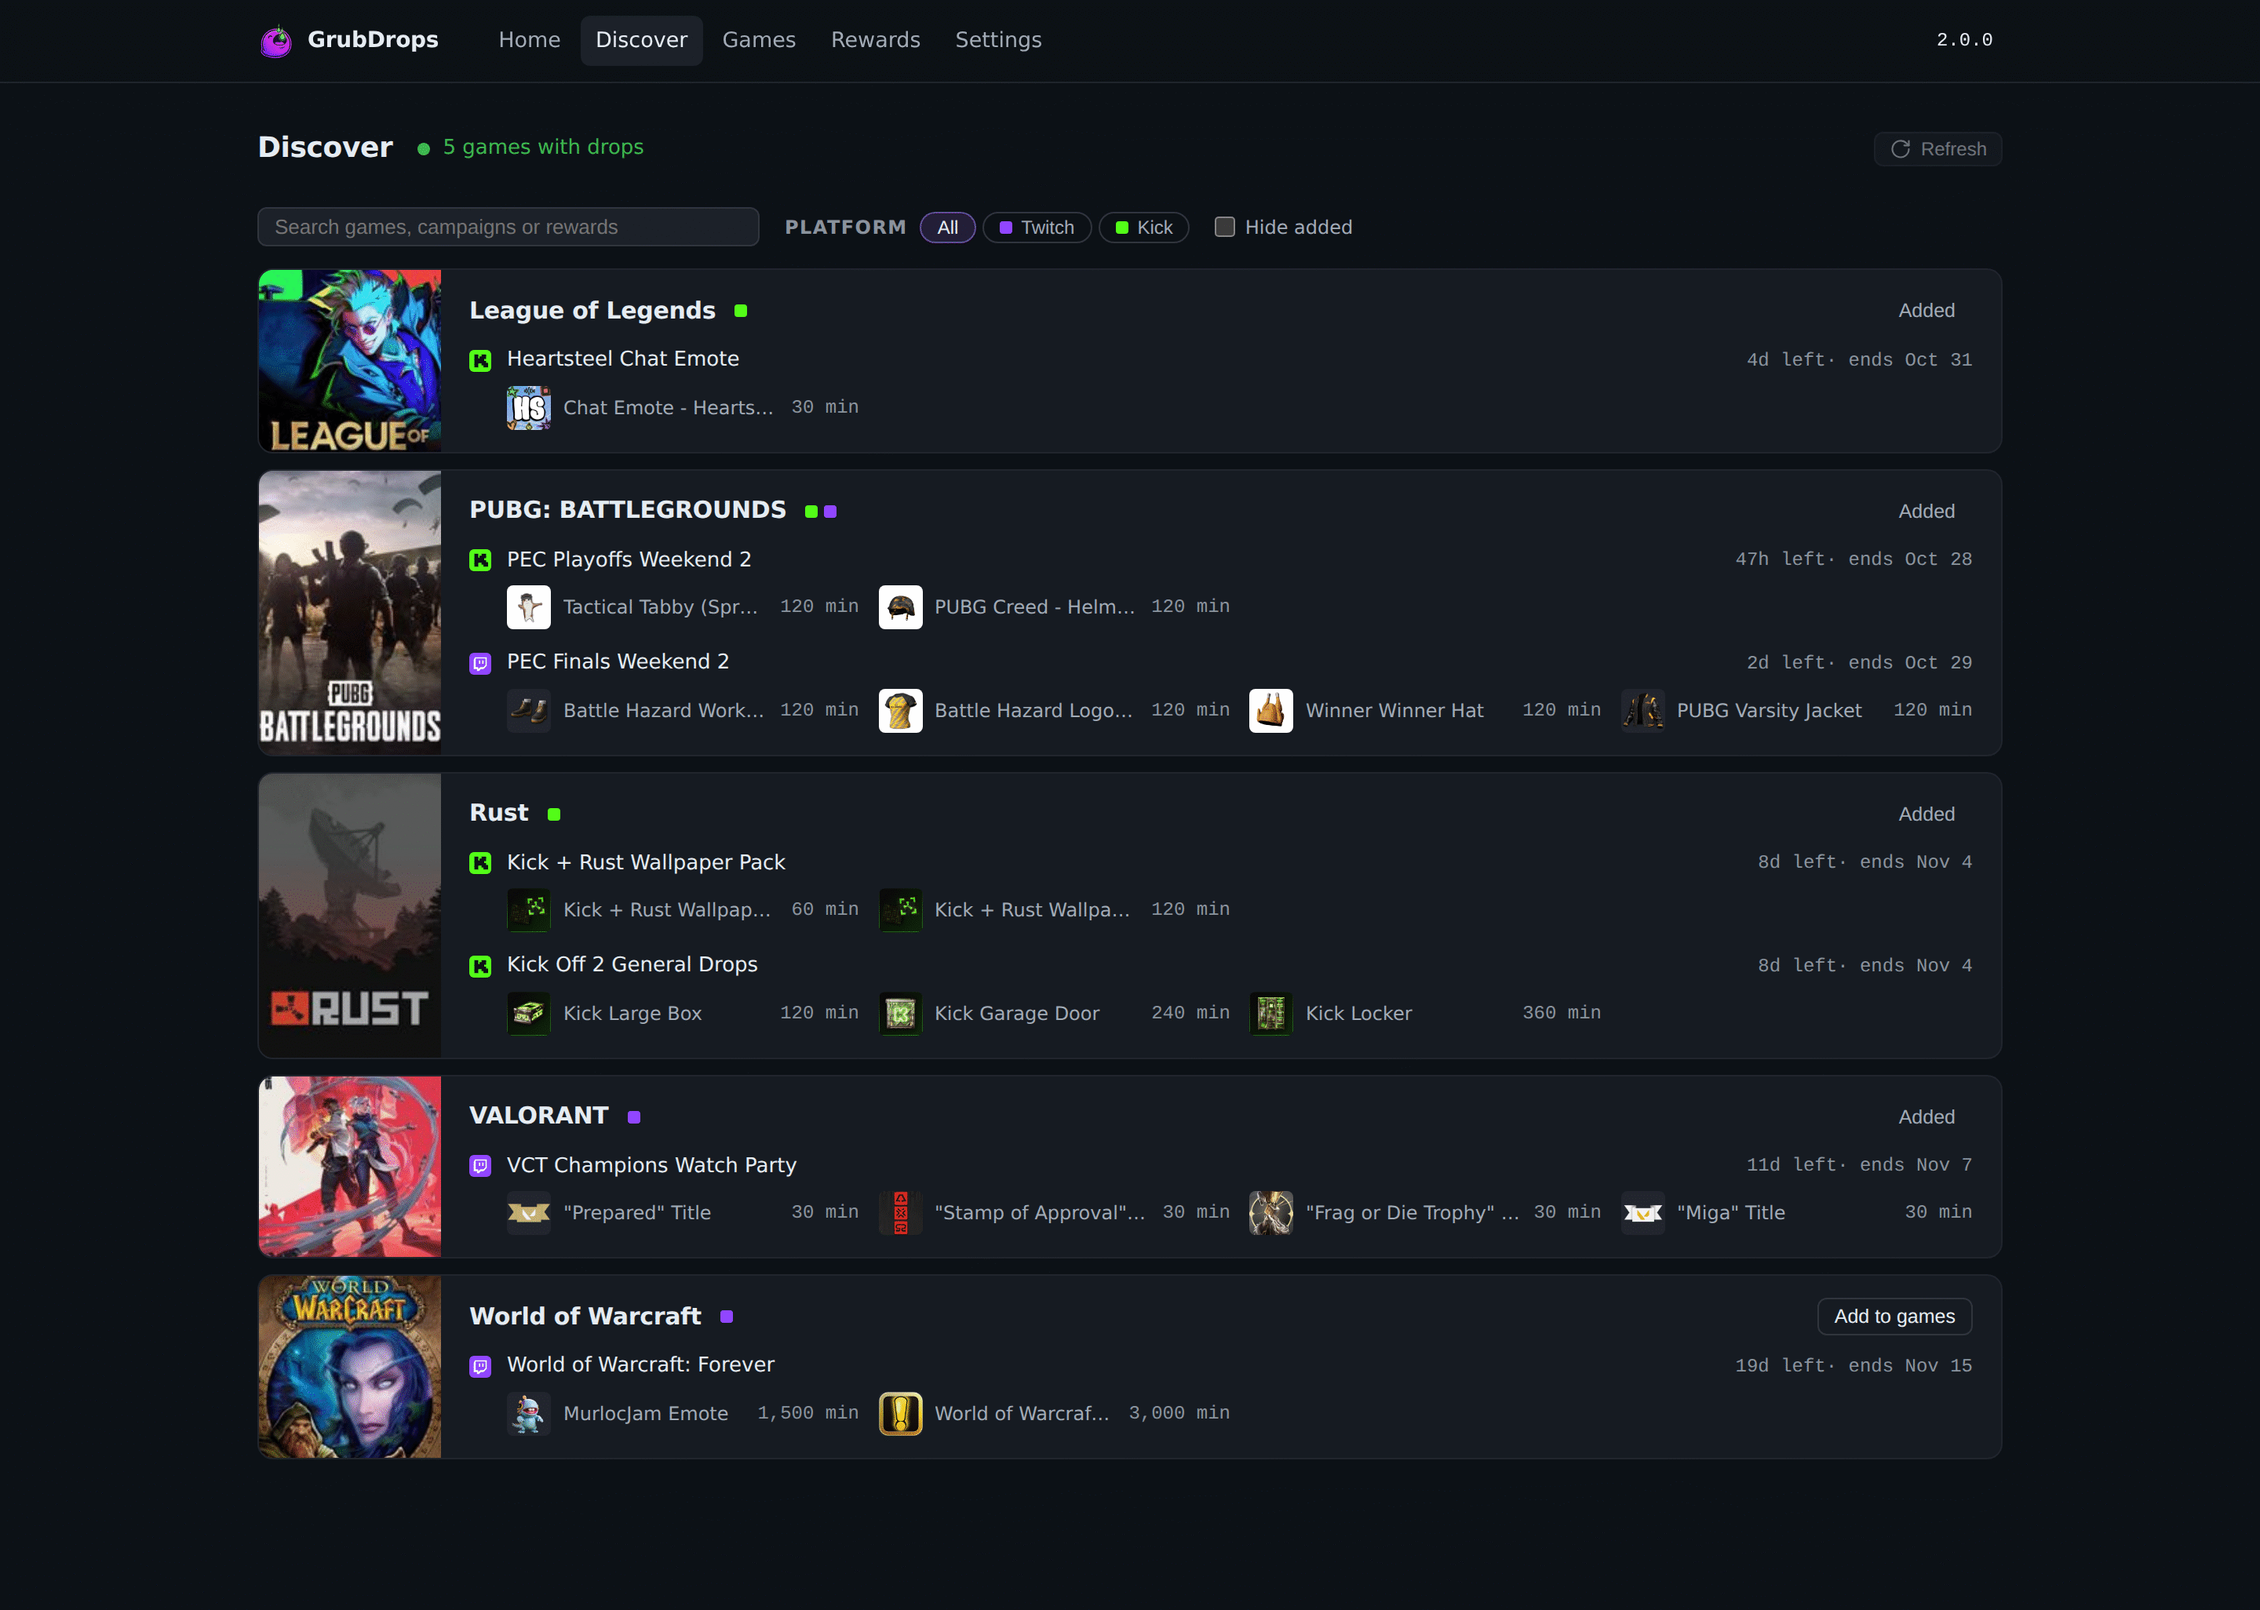
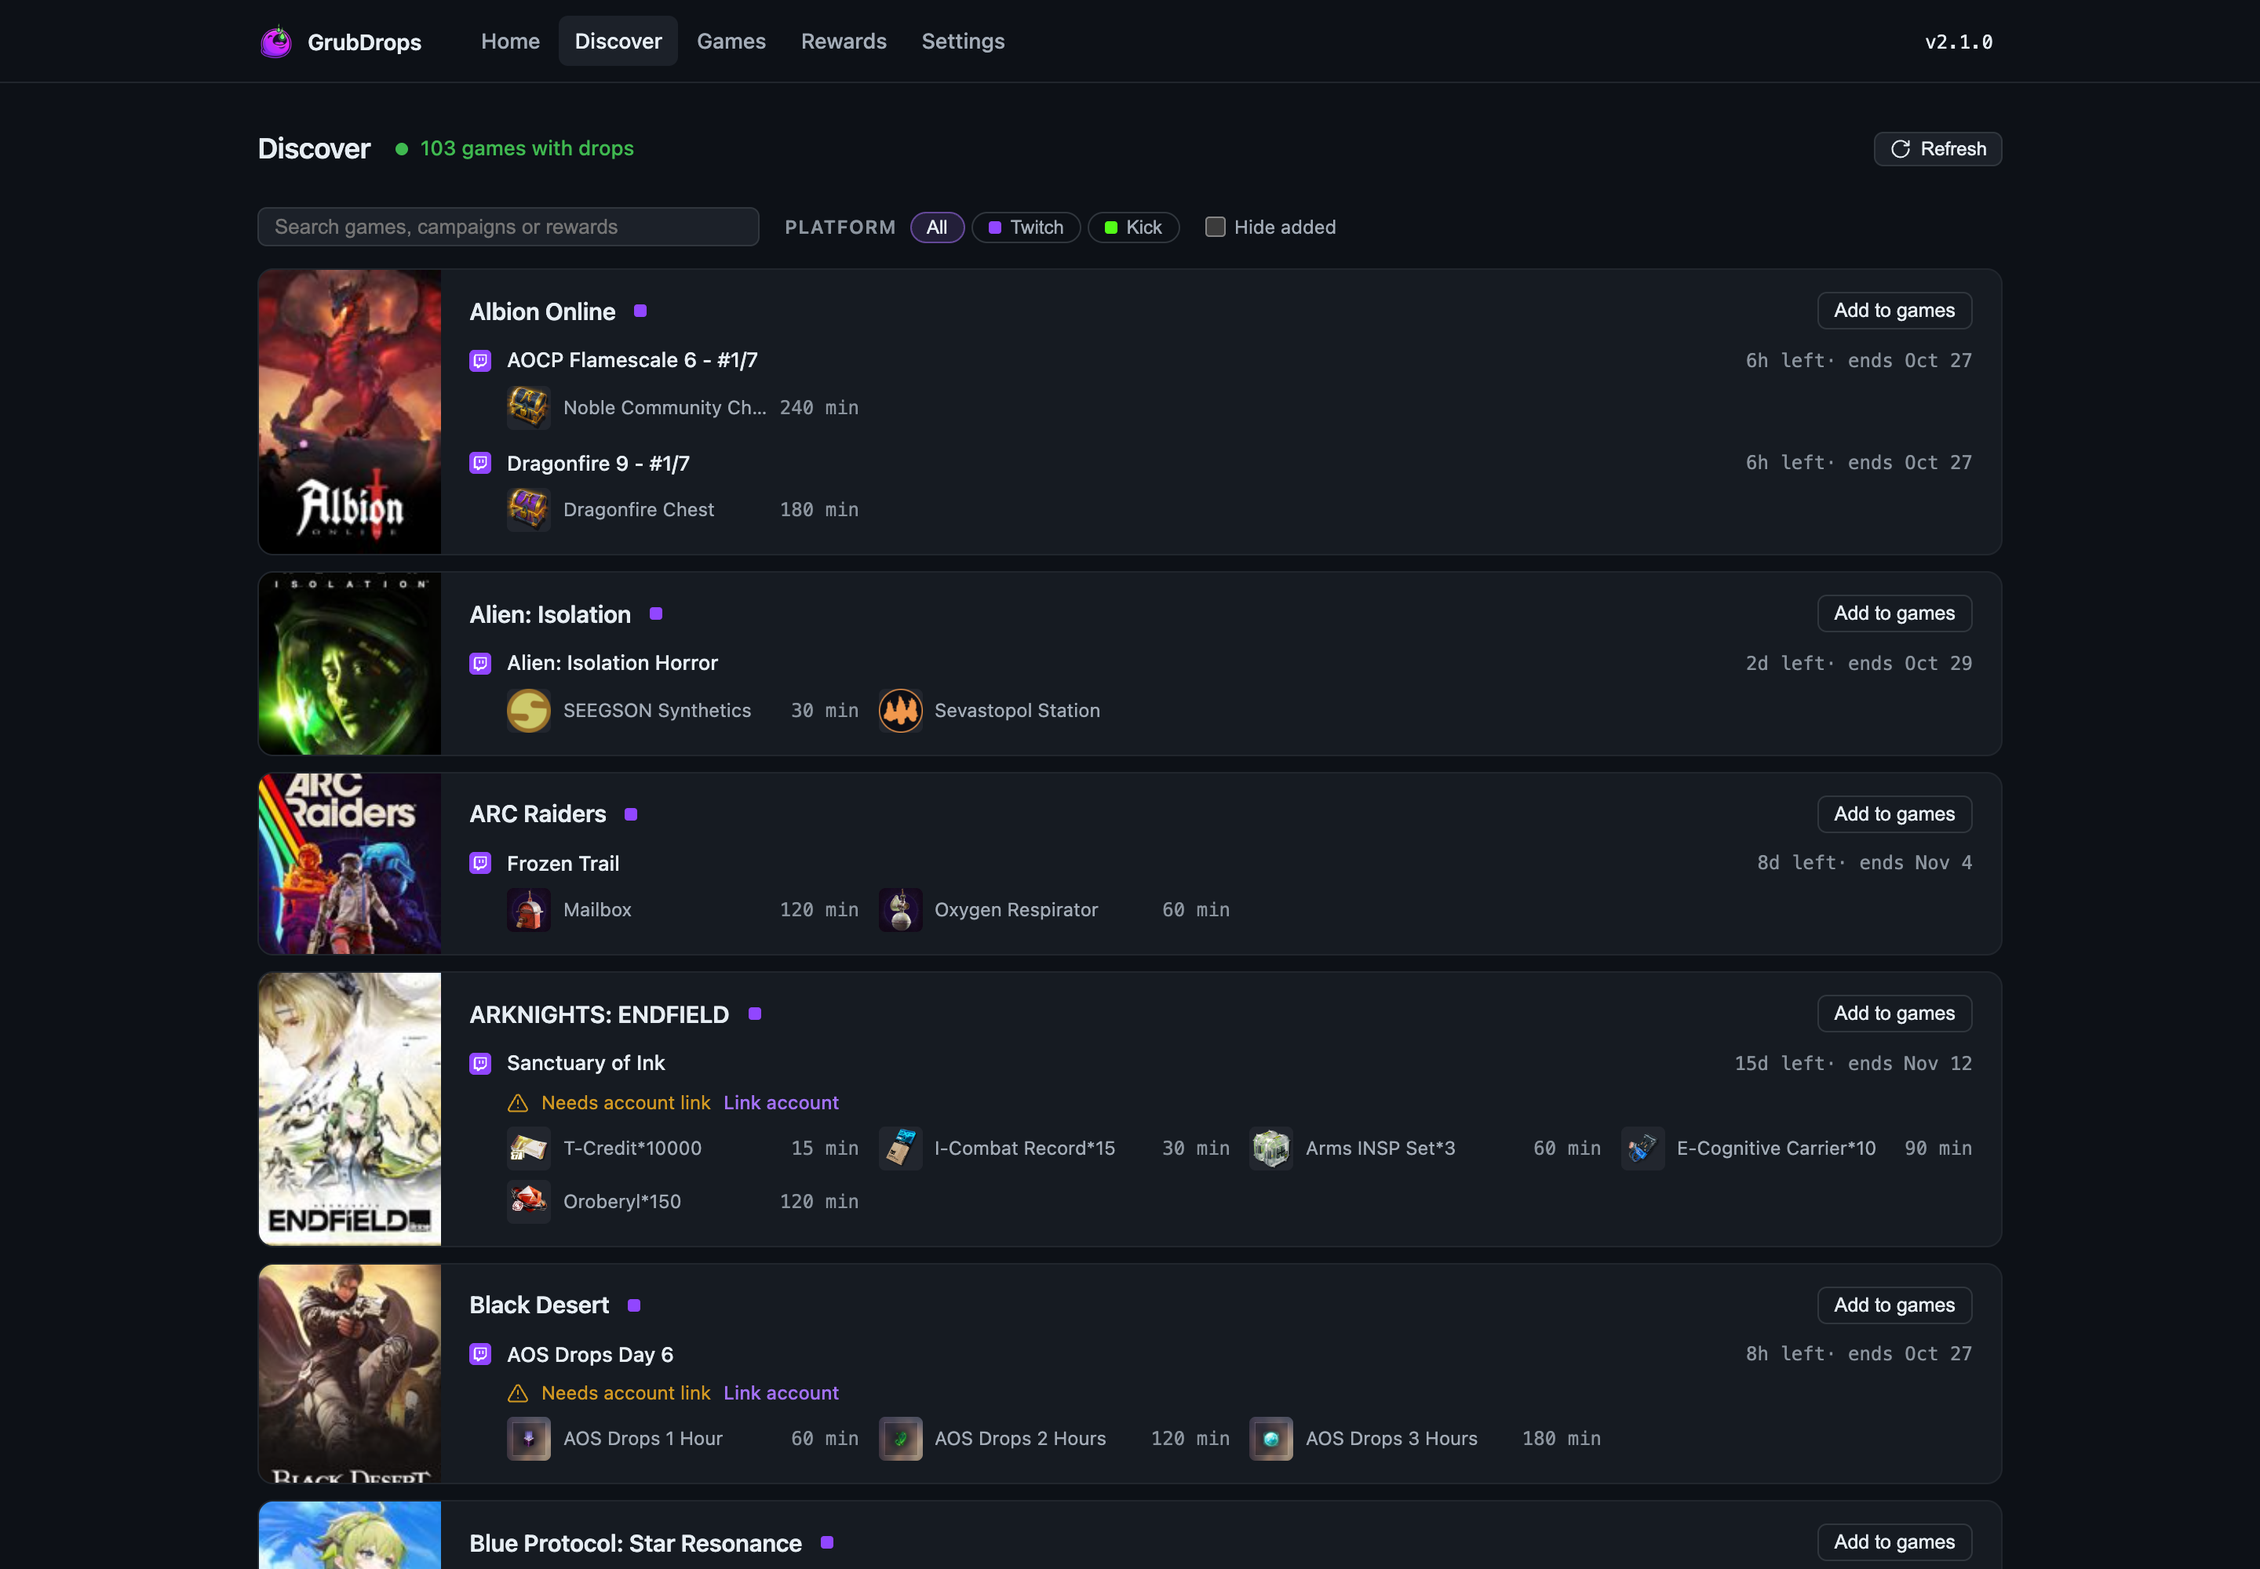
docs: refresh screenshots for 2.1.0
Home, Discover, Games and Rewards from sample accounts on v2.1.0. Games
shows the Lists rail with one account on its own list. Discover uses the
public campaign catalog.

diff --git a/docs/index.html b/docs/index.html
@@ -108,7 +108,7 @@
   <div class="shots">
     <img src="screenshots/home.png" alt="GrubDrops Home page: what each account is mining across Twitch and Kick">
     <div class="row2">
-      <img src="screenshots/games.png" alt="Games page: chosen games in priority order">
+      <img src="screenshots/games.png" alt="Games page: chosen games in priority order, with per-account game lists">
       <img src="screenshots/rewards.png" alt="Rewards page: drops in progress and every claimed drop">
     </div>
   </div>

diff --git a/README.md b/README.md
@@ -140,7 +140,7 @@ SSO turns on when the first four variables are set. Password login still works.
 
 <p align="center">
   <img src="docs/screenshots/discover.png" width="32%" alt="Discover: current Twitch and Kick campaigns grouped by game">
-  <img src="docs/screenshots/games.png" width="32%" alt="Games: chosen games in priority order">
+  <img src="docs/screenshots/games.png" width="32%" alt="Games: chosen games in priority order, with a Lists rail for per-account game lists">
   <img src="docs/screenshots/rewards.png" width="32%" alt="Rewards: drops in progress, Up next and claim history">
 </p>
 

diff --git a/docs/CHANGELOG.md b/docs/CHANGELOG.md
@@ -4,6 +4,9 @@ All notable changes to GrubDrops.
 
 ## [Unreleased]
 
+### Changed
+- README and landing page screenshots show 2.1.0: the Games page with the Lists rail, and Home, Discover and Rewards.
+
 ## [2.1.0] — 2026-10-26
 
 ### Added
